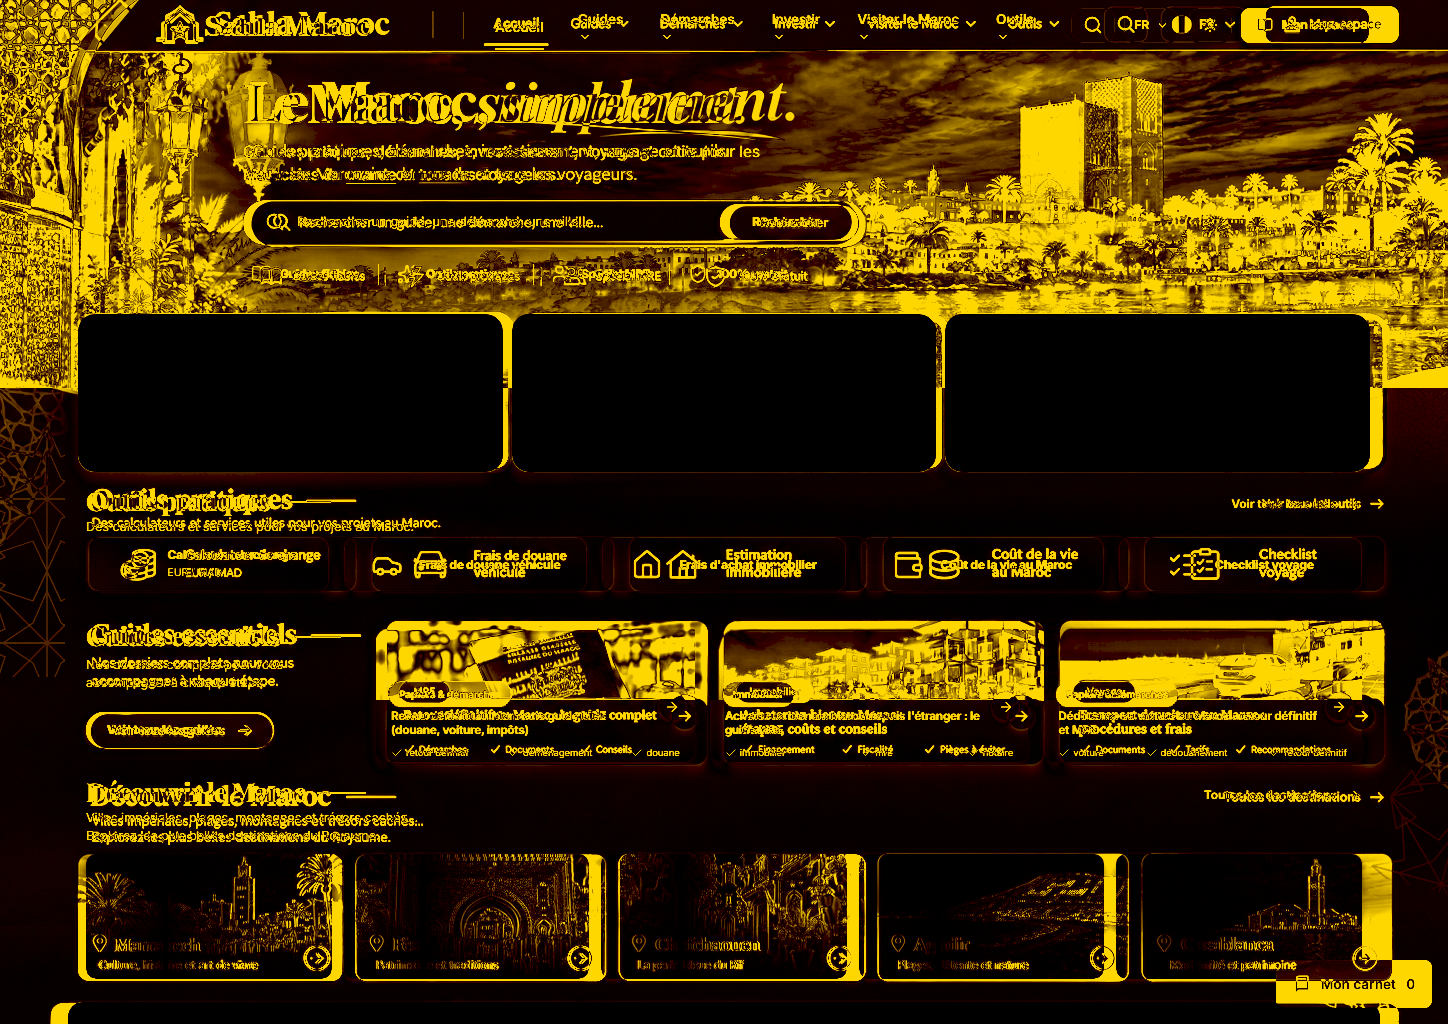
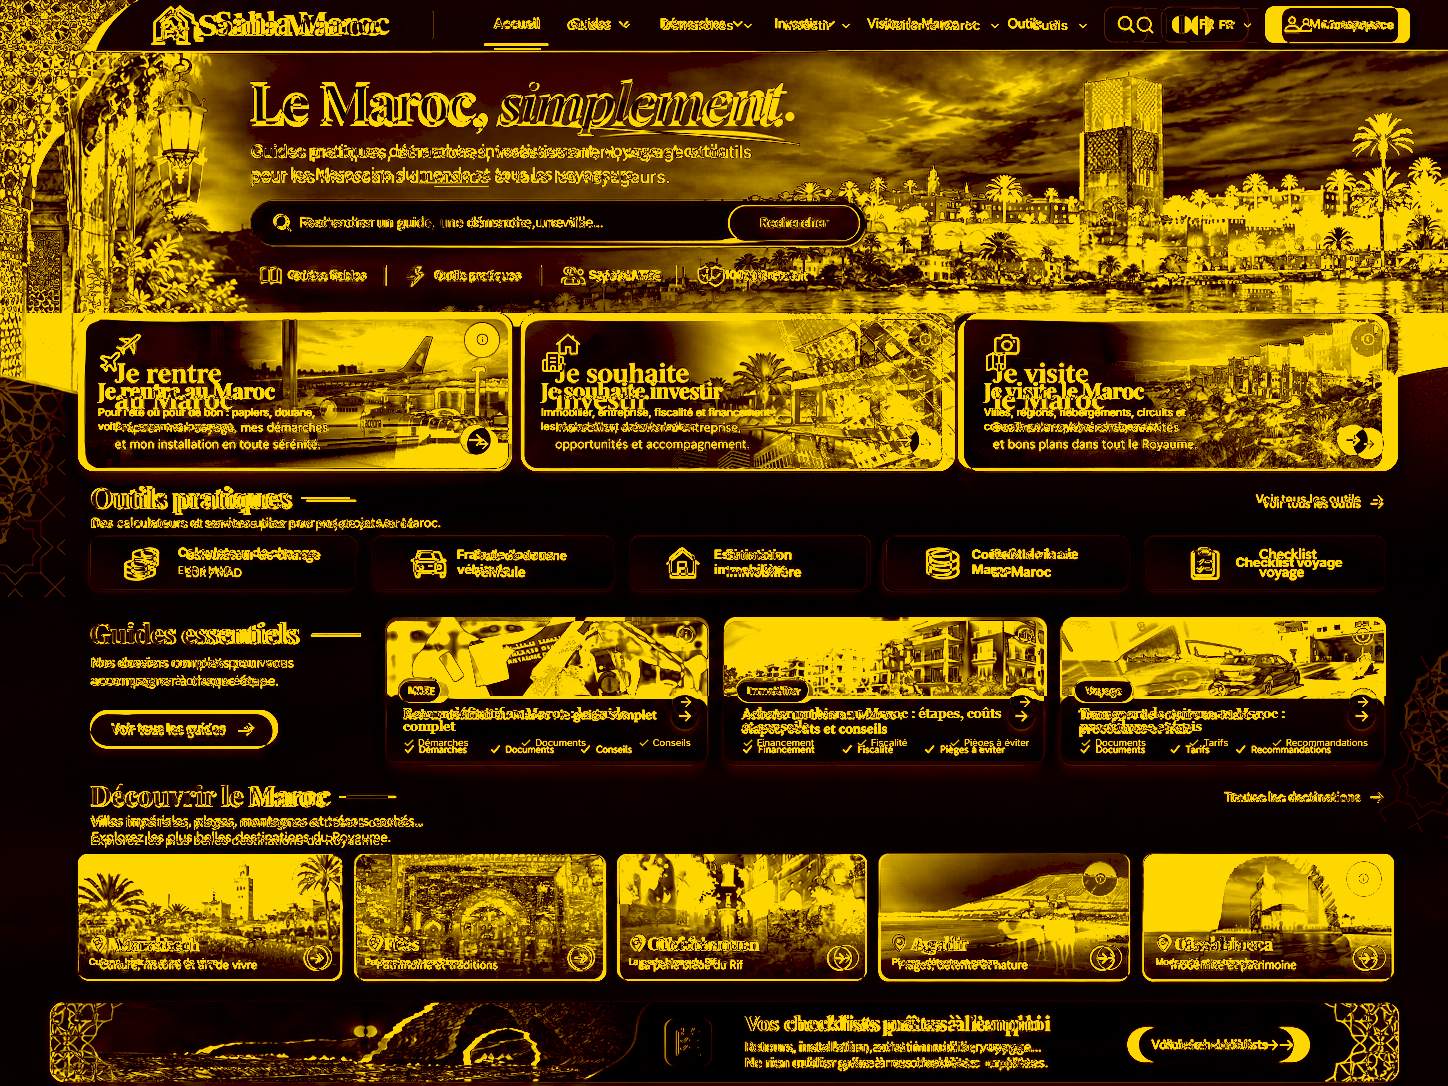
Fix homepage photo framing and image clarity

diff --git a/src/styles/template.css b/src/styles/template.css
@@ -61,6 +61,7 @@
   display: flex;
   align-items: center;
   position: relative;
+  z-index: 2;
 }
 .tpl-brand { display: flex; align-items: center; justify-content: center; flex: none; width: 446px; height: 50px; }
 .tpl-brand img { width: auto; height: 49px; max-height: 49px; }
@@ -251,9 +252,9 @@ details[open] > .tpl-nav__chevron svg { transform: rotate(180deg); }
   position: relative;
   display: block;
   min-width: 0;
-  height: 154px;
+  height: 158px;
   border-radius: var(--tpl-radius);
-  border: 4px solid #fff8f1;
+  border: 0;
   overflow: hidden;
   color: #fff;
   background: var(--tpl-forest);
@@ -261,12 +262,7 @@ details[open] > .tpl-nav__chevron svg { transform: rotate(180deg); }
   transition: transform .2s var(--ease-out), box-shadow .2s var(--ease-out);
 }
 .tpl-feature:hover, .tpl-feature:focus-visible { transform: translateY(-3px); box-shadow: var(--tpl-shadow-lift); }
-/* Carte « exacte » (français, ordinateur) : image de la maquette, texte incrusté comme la référence. */
-.tpl-feature__exact { display: none; width: 100%; height: 100%; max-width: 100%; object-fit: fill; object-position: left top; }
-.tpl-feature--exact { height: 158px; border: 0; box-shadow: 0 6px 16px rgb(61 38 27 / .14); }
-.tpl-feature--exact .tpl-feature__exact { display: block; }
-.tpl-feature--exact .tpl-feature__editable { display: none; }
-/* Carte éditable : photo + texte HTML traduit (mobile et autres langues). */
+/* Carte : photographie haute résolution et texte HTML traduit. */
 .tpl-feature__editable {
   position: relative;
   isolation: isolate;
@@ -310,6 +306,8 @@ details[open] > .tpl-nav__chevron svg { transform: rotate(180deg); }
 .tpl-feature-cell .photo-credit-control__trigger { width: 1.3rem; height: 1.3rem; border-color: rgb(255 255 255 / .35); background: rgb(7 30 24 / .45); opacity: .8; }
 .tpl-feature-cell .photo-credit-control__trigger svg { width: .8rem; height: .8rem; }
 .tpl-feature-cell .photo-credit-control__trigger:hover { opacity: 1; }
+.tpl-guide > .photo-credit-control { inset-block-end: auto; inset-block-start: .45rem; inset-inline-end: .45rem; z-index: 2; }
+.tpl-guide > .photo-credit-control .photo-credit-control__trigger { width: 1.35rem; height: 1.35rem; border-color: rgb(255 255 255 / .5); background: rgb(7 30 24 / .52); opacity: .86; }
 .tpl-dest__link { position: absolute; inset: 0; z-index: 3; }
 .tpl-dest__link:focus-visible { outline: 3px solid #f4c051; outline-offset: -4px; border-radius: 10px; }
 .tpl-dest .photo-credit-control { inset-block-end: auto; inset-block-start: .4rem; inset-inline-end: .4rem; z-index: 4; }
@@ -352,7 +350,7 @@ details[open] > .tpl-nav__chevron svg { transform: rotate(180deg); }
 .tpl-pill:hover { background: linear-gradient(#1a6b4d, #0a3a2d); }
 
 /* 6. Outils pratiques ------------------------------------------------------- */
-.tpl-tools { margin-block-start: 18px; }
+.tpl-tools { margin-block-start: 9px; }
 .tpl-tools__grid { display: grid; grid-template-columns: repeat(5, minmax(0, 1fr)); gap: 15px; margin-block-start: 1px; }
 .tpl-tool {
   display: flex;
@@ -374,7 +372,7 @@ details[open] > .tpl-nav__chevron svg { transform: rotate(180deg); }
 .tpl-tool small { margin-block-start: 3px; font-size: 10.4px; color: #424d55; }
 
 /* 7. Guides essentiels ------------------------------------------------------ */
-.tpl-guides { margin-block-start: 24px; }
+.tpl-guides { margin-block-start: 27px; }
 .tpl-guides__grid { display: grid; grid-template-columns: 275px repeat(3, minmax(0, 1fr)); gap: 15px; }
 .tpl-guides__intro h2 { margin: 0; font-family: var(--font-display); font-size: clamp(1.4rem, 1.8vw, 1.62rem); font-weight: 800; letter-spacing: -.03em; }
 .tpl-guides__intro p { margin: 6px 0 20px; font-size: 12.5px; line-height: 1.45; color: #243441; }
@@ -428,8 +426,8 @@ details[open] > .tpl-nav__chevron svg { transform: rotate(180deg); }
 .tpl-guide__checks svg { flex: none; color: #cb3f1d; }
 
 /* 8. Destinations ----------------------------------------------------------- */
-.tpl-destinations { margin-block-start: 21px; }
-.tpl-destinations__grid { display: grid; grid-template-columns: repeat(5, minmax(0, 1fr)); gap: 12px; margin-block-start: 9px; }
+.tpl-destinations { margin-block-start: 18px; }
+.tpl-destinations__grid { display: grid; grid-template-columns: repeat(5, minmax(0, 1fr)); gap: 12px; margin-block-start: 4px; }
 .tpl-dest {
   position: relative;
   display: block;
@@ -442,11 +440,9 @@ details[open] > .tpl-nav__chevron svg { transform: rotate(180deg); }
   background: var(--surface-3);
 }
 .tpl-dest:hover, .tpl-dest:focus-visible { transform: translateY(-3px); }
-.tpl-dest__exact { display: none; position: absolute; inset-block-start: 0; inset-inline-start: 0; width: 100%; height: 100%; max-width: 100%; object-fit: fill; }
-.tpl-dest--exact .tpl-dest__exact { display: block; }
-.tpl-dest--exact .tpl-dest__editable { display: none; }
 .tpl-dest__editable { position: absolute; inset: 0; }
 .tpl-dest__editable > img { position: absolute; inset: 0; width: 100%; height: 100%; object-fit: cover; }
+.tpl-dest__fallback { position: absolute; inset: 0; background: linear-gradient(140deg, #315e58, #163a33 65%, #d08c4d); }
 .tpl-dest__editable::after { content: ""; position: absolute; inset: 42% 0 0; background: linear-gradient(0deg, rgb(2 18 15 / .92), transparent); }
 .tpl-dest__text { position: absolute; z-index: 1; inset-inline-start: 11px; bottom: 9px; }
 .tpl-dest__text h3 { display: flex; align-items: center; gap: 3px; margin: 0; font-family: var(--font-display); font-size: 17px; font-weight: 700; color: #fff; }
@@ -505,7 +501,7 @@ details[open] > .tpl-nav__chevron svg { transform: rotate(180deg); }
   opacity: .85;
   pointer-events: none;
 }
-.tpl-checklist__icon { position: relative; z-index: 1; margin-inline-start: 30%; display: grid; place-items: center; color: #f9d06d; }
+.tpl-checklist__icon { position: relative; z-index: 1; margin-inline-start: 30%; display: grid; place-items: center; width: 46px; height: 46px; flex: none; border: 1px solid rgb(255 224 161 / .22); border-radius: 11px; background: linear-gradient(145deg, rgb(206 145 47 / .82), rgb(150 89 27 / .78)); color: #ffe3a0; box-shadow: inset 0 1px rgb(255 255 255 / .16); }
 .tpl-checklist__copy { position: relative; z-index: 1; }
 .tpl-checklist__copy h2 { margin: 0; font-family: var(--font-display); font-size: 21px; font-weight: 700; letter-spacing: -.01em; color: #fff; }
 .tpl-checklist__copy p { margin: 2px 0 0; font-size: 11px; line-height: 1.45; color: rgb(255 255 255 / .88); }
@@ -692,7 +688,7 @@ details[open] > .tpl-nav__chevron svg { transform: rotate(180deg); }
   .tpl-guides__intro { grid-column: 1 / -1; display: flex; align-items: center; justify-content: space-between; gap: 10px; }
   .tpl-guides__intro p { display: none; }
   .tpl-guides__intro .tpl-pill { margin-inline-start: auto; }
-  .tpl-destinations__grid { grid-template-columns: repeat(3, minmax(0, 1fr)); }
+  .tpl-destinations__grid { grid-template-columns: repeat(3, minmax(0, 1fr)); margin-block-start: 9px; }
   .tpl-checklist { flex-wrap: wrap; height: auto; min-height: 96px; }
   .tpl-checklist__icon { margin-inline-start: 22%; }
   .tpl-footer__inner { grid-template-columns: repeat(2, 1fr); }
@@ -723,13 +719,9 @@ details[open] > .tpl-nav__chevron svg { transform: rotate(180deg); }
   .tpl-benefit i { display: none; }
   .tpl-features { width: calc(100% - 24px); margin-block-start: -36px; }
   .tpl-features__grid { grid-template-columns: 1fr; gap: 10px; }
-  .tpl-feature { height: 147px; border-width: 3px; }
-  .tpl-feature--exact .tpl-feature__exact { display: none; }
-  .tpl-feature--exact .tpl-feature__editable { display: flex; }
+  .tpl-feature { height: 147px; }
   .tpl-feature h2 { font-size: 1.8rem; }
   .tpl-feature p { font-size: 10.5px; max-width: 14rem; }
-  .tpl-dest--exact .tpl-dest__exact { display: none; }
-  .tpl-dest--exact .tpl-dest__editable { display: block; }
   .tpl-section { width: calc(100% - 34px); }
   .tpl-section__head h2, .tpl-guides__intro h2 { font-size: 1.5rem; }
   .tpl-accent { width: 28px; }
@@ -750,12 +742,14 @@ details[open] > .tpl-nav__chevron svg { transform: rotate(180deg); }
   .tpl-checklist--exact { height: auto; }
   .tpl-checklist--exact .tpl-checklist__exact { display: none; }
   .tpl-checklist--exact .tpl-checklist__editable { display: flex; }
-  .tpl-checklist__editable { padding: 13px; }
-  .tpl-checklist__photo { width: 45%; }
-  .tpl-checklist__icon { margin-inline-start: 26%; }
-  .tpl-checklist__link { margin-inline-start: auto; padding: 9px 13px; }
-  .tpl-checklist__copy h2 { font-size: 19px; }
-  .tpl-checklist__copy p { font-size: 10px; }
+  .tpl-checklist__editable, .tpl-checklist--exact .tpl-checklist__editable { display: grid; grid-template-columns: 40px minmax(0, 1fr); align-items: start; gap: 10px 13px; padding: 18px; }
+  .tpl-checklist__photo { display: none; }
+  .tpl-checklist__ornament { width: 88px; opacity: .45; }
+  .tpl-checklist__icon { width: 40px; height: 40px; margin: 0; border-radius: 10px; }
+  .tpl-checklist__copy { min-width: 0; }
+  .tpl-checklist__link { grid-column: 2; grid-row: 2; justify-self: start; margin: 1px 0 0; padding: 10px 15px; }
+  .tpl-checklist__copy h2 { font-size: 19px; line-height: 1.14; }
+  .tpl-checklist__copy p { font-size: 12px; line-height: 1.45; }
   .tpl-footer__inner { grid-template-columns: 1fr 1fr; gap: 30px 16px; padding: 34px 21px; }
   .tpl-footer__brand { grid-column: 1 / -1; }
   .tpl-footer__col h2 { font-size: 13px; }
@@ -842,4 +836,12 @@ details[open] > .tpl-nav__chevron svg { transform: rotate(180deg); }
     from { opacity: .65; transform: translateY(10px); }
     to { opacity: 1; transform: translateY(0); }
   }
+}
+
+/* Home: keep the full arch inside the panorama and align the feature row to its edge. */
+@media (min-width: 1081px) {
+  body:has(.home-shell) .tpl-hero { height: 262px; }
+  body:has(.home-shell) .tpl-hero__media { object-position: center top; }
+  body:has(.home-shell) .tpl-hero__content { padding-inline-start: max(calc((100% - 1300px) / 2 + 140px), 17.3vw); }
+  body:has(.home-shell) .tpl-features { margin-block-start: 0; }
 }

diff --git a/src/data/paths.ts b/src/data/paths.ts
@@ -164,22 +164,24 @@ export const PATHS: Record<PathId, PathDef> = {
 };
 
 /** Photos authentiques déjà présentes (crédits : src/assets/photos/CREDITS.md et manifeste des villes). */
-const STATIC_PHOTOS: Record<Exclude<PathId, 'visit'>, { src: ImageMetadata; credit: string; alt: T }> = {
+const STATIC_PHOTOS: Record<Exclude<PathId, 'visit'>, { src: ImageMetadata; credit: string; source: string; alt: T }> = {
   return: {
     src: portPhoto, credit: 'HrAd, CC BY-SA 3.0',
+    source: 'https://commons.wikimedia.org/wiki/File:Tanger_Med_-_02.JPG',
     alt: { fr: 'Ferries à quai au port de Tanger Med', en: 'Ferries moored at the port of Tanger Med', es: 'Ferris atracados en el puerto de Tanger Med', de: 'Fähren am Kai im Hafen Tanger Med', ar: 'عبّارات راسية في ميناء طنجة المتوسط' },
   },
   invest: {
     src: cfcPhoto, credit: 'AyourAchtouk, CC BY-SA 4.0',
+    source: 'https://commons.wikimedia.org/wiki/File:Casablanca_Finance_City_35.jpg',
     alt: { fr: 'Tours de bureaux de Casablanca Finance City', en: 'Office towers in Casablanca Finance City', es: 'Torres de oficinas de Casablanca Finance City', de: 'Bürotürme in Casablanca Finance City', ar: 'أبراج مكاتب في القطب المالي للدار البيضاء' },
   },
 };
 
-export function pathPhoto(id: PathId, lang: Locale): { src: ImageMetadata; alt: string; credit: string } | null {
+export function pathPhoto(id: PathId, lang: Locale): { src: ImageMetadata; alt: string; credit: string; source: string } | null {
   if (id === 'visit') {
     const p = placePhoto('hero', 'home-hero', lang);
-    return p.image && p.credit ? { src: p.image, alt: p.alt, credit: p.credit } : null;
+    return p.image && p.credit && p.source ? { src: p.image, alt: p.alt, credit: p.credit, source: p.source } : null;
   }
   const s = STATIC_PHOTOS[id];
-  return { src: s.src, alt: s.alt[lang], credit: s.credit };
+  return { src: s.src, alt: s.alt[lang], credit: s.credit, source: s.source };
 }

diff --git a/docs/IMAGES-QUALITE.md b/docs/IMAGES-QUALITE.md
@@ -2,7 +2,7 @@
 
 Généré par `node tools/audit-image-quality.mjs` le 2026-11-17.
 
-**536 fichiers examinés**, dont 121 vectoriels ; 0 photos sous 720 px après recadrage 4:3 ; 0 fichier(s) non lisible(s) par Sharp ; 0 référence(s) de manifeste manquante(s).
+**511 fichiers examinés**, dont 121 vectoriels ; 0 photos sous 720 px après recadrage 4:3 ; 0 fichier(s) non lisible(s) par Sharp ; 0 référence(s) de manifeste manquante(s).
 
 Périmètre : toutes les images de `src/assets` et `public`, y compris les images non utilisées et les variantes déjà générées. Les sorties `dist` et les dépendances sont exclues. Les dimensions tiennent compte de la rotation EXIF. Seules les photographies de `src/assets/photos` sont soumises aux seuils : largeur disponible après recadrage 4:3 pour les cartes (720 px) et 16:9 pour les héros (1600 px). Les seuils repèrent les sources à examiner : le rôle réel, le ratio et le cadrage doivent être contrôlés dans les pages. Une grande dimension ne prouve ni la netteté, ni la date, ni le lieu, ni la licence. Les fichiers ICO sont signalés si le décodeur ne les lit pas.
 
@@ -20,32 +20,7 @@ Aucune.
 | Fichier | Dimensions orientées | Poids Ko | Revue à prévoir |
 |---|---:|---:|---|
 | public/assets/cards/coast-checklist.webp | 720 × 77 | 6 | hors photographie : rôle spécifique à examiner |
-| public/assets/cards/destination-agadir.webp | 720 × 313 | 8 | hors photographie : rôle spécifique à examiner |
-| public/assets/cards/destination-casablanca.webp | 720 × 319 | 8 | hors photographie : rôle spécifique à examiner |
-| public/assets/cards/destination-chefchaouen.webp | 720 × 317 | 26 | hors photographie : rôle spécifique à examiner |
-| public/assets/cards/destination-fes.webp | 720 × 315 | 24 | hors photographie : rôle spécifique à examiner |
-| public/assets/cards/destination-marrakech.webp | 720 × 299 | 14 | hors photographie : rôle spécifique à examiner |
-| public/assets/cards/exact/agadir.png | 244 × 123 | 43 | hors photographie : rôle spécifique à examiner |
-| public/assets/cards/exact/casablanca.png | 240 × 123 | 42 | hors photographie : rôle spécifique à examiner |
-| public/assets/cards/exact/checklist-bandeau.png | 1312 × 80 | 125 | hors photographie : rôle spécifique à examiner |
-| public/assets/cards/exact/chefchaouen.png | 241 × 123 | 57 | hors photographie : rôle spécifique à examiner |
-| public/assets/cards/exact/fes.png | 243 × 123 | 59 | hors photographie : rôle spécifique à examiner |
-| public/assets/cards/exact/je-rentre-au-maroc.png | 419 × 149 | 96 | hors photographie : rôle spécifique à examiner |
-| public/assets/cards/exact/je-souhaite-investir.png | 417 × 149 | 104 | hors photographie : rôle spécifique à examiner |
-| public/assets/cards/exact/je-visite-le-maroc.png | 417 × 149 | 106 | hors photographie : rôle spécifique à examiner |
-| public/assets/cards/exact/marrakech.png | 256 × 123 | 61 | hors photographie : rôle spécifique à examiner |
-| public/assets/cards/guide-achat-immobilier.webp | 640 × 148 | 7 | hors photographie : rôle spécifique à examiner |
-| public/assets/cards/guide-retour-definitif-mre.webp | 640 × 146 | 10 | hors photographie : rôle spécifique à examiner |
-| public/assets/cards/guide-transport-voiture.webp | 640 × 144 | 6 | hors photographie : rôle spécifique à examiner |
 | public/assets/cards/ref/checklist-banner.png | 1312 × 80 | 238 | hors photographie : rôle spécifique à examiner |
-| public/assets/cards/ref/destination-agadir.png | 251 × 128 | 80 | hors photographie : rôle spécifique à examiner |
-| public/assets/cards/ref/destination-casablanca.png | 252 × 128 | 87 | hors photographie : rôle spécifique à examiner |
-| public/assets/cards/ref/destination-chefchaouen.png | 248 × 128 | 97 | hors photographie : rôle spécifique à examiner |
-| public/assets/cards/ref/destination-fes.png | 251 × 128 | 98 | hors photographie : rôle spécifique à examiner |
-| public/assets/cards/ref/destination-marrakech.png | 264 × 128 | 95 | hors photographie : rôle spécifique à examiner |
-| public/assets/cards/ref/je-rentre-au-maroc.png | 434 × 159 | 170 | hors photographie : rôle spécifique à examiner |
-| public/assets/cards/ref/je-souhaite-investir.png | 429 × 159 | 181 | hors photographie : rôle spécifique à examiner |
-| public/assets/cards/ref/je-visite-le-maroc.png | 434 × 159 | 177 | hors photographie : rôle spécifique à examiner |
 | public/assets/decor/coin-arabesque.svg | 250 × 250 | 1 | vectoriel |
 | public/assets/decor/lanterne.svg | 100 × 220 | 0 | vectoriel |
 | public/assets/decor/ligne-ornement.svg | 160 × 20 | 0 | vectoriel |
